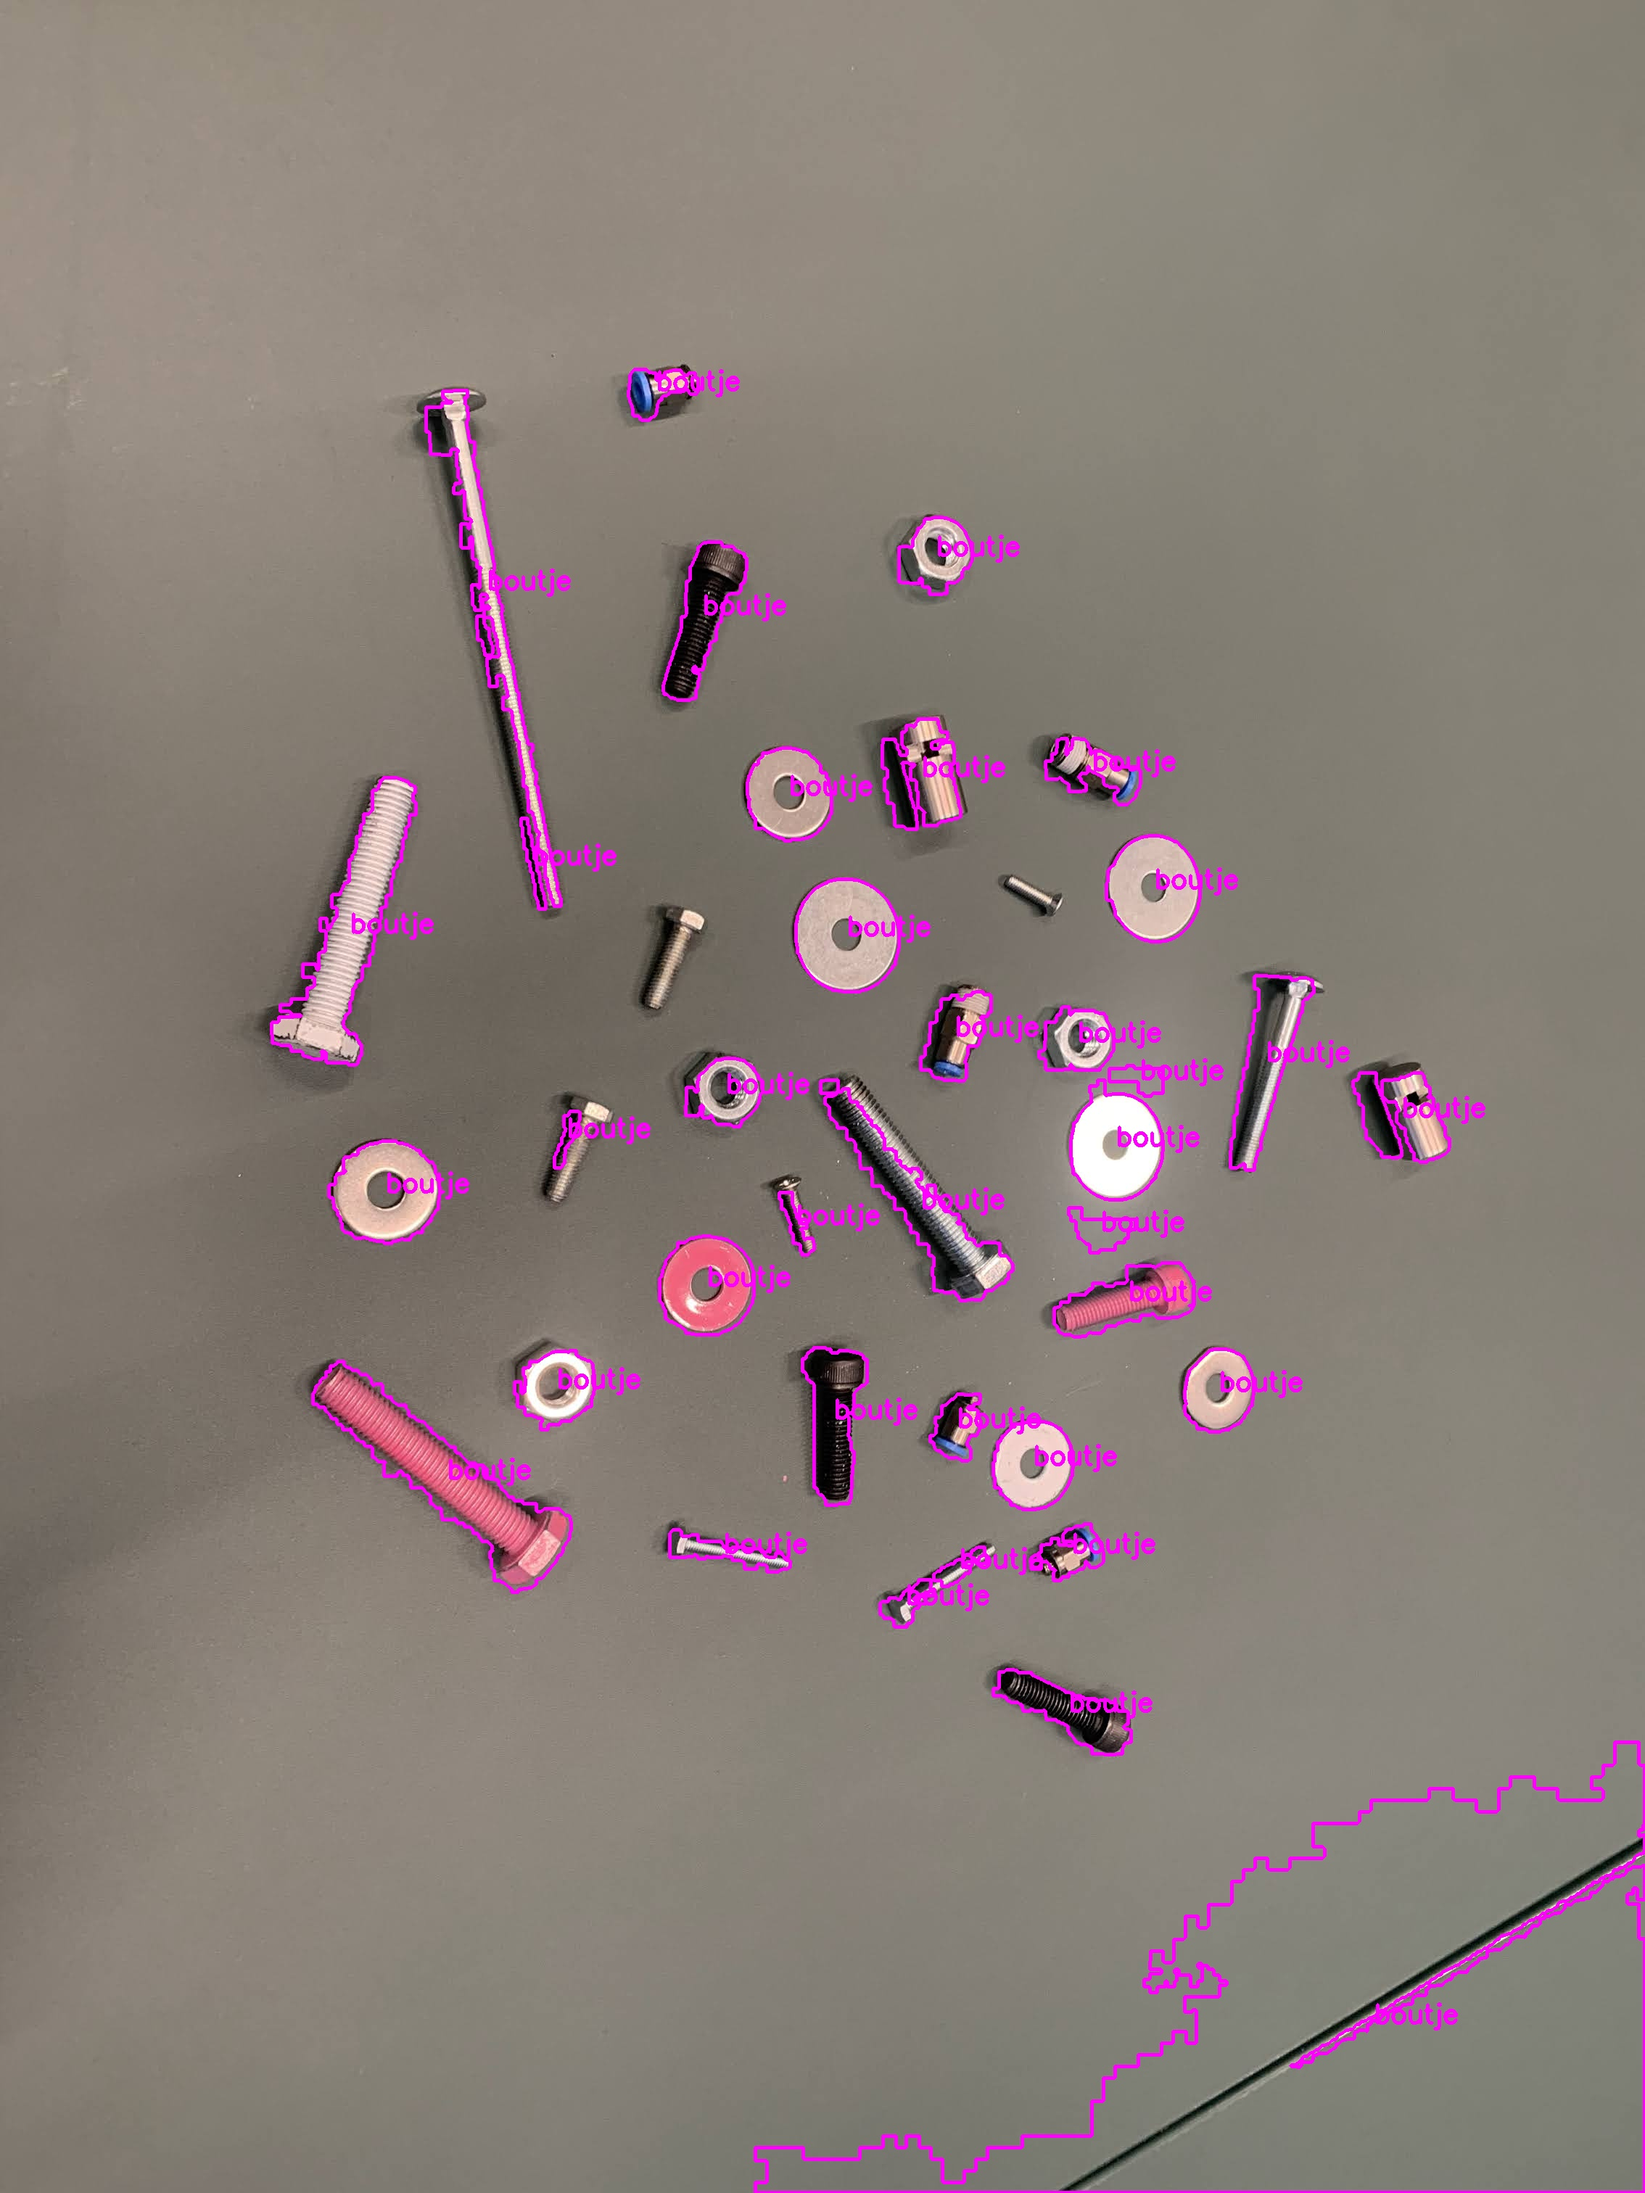
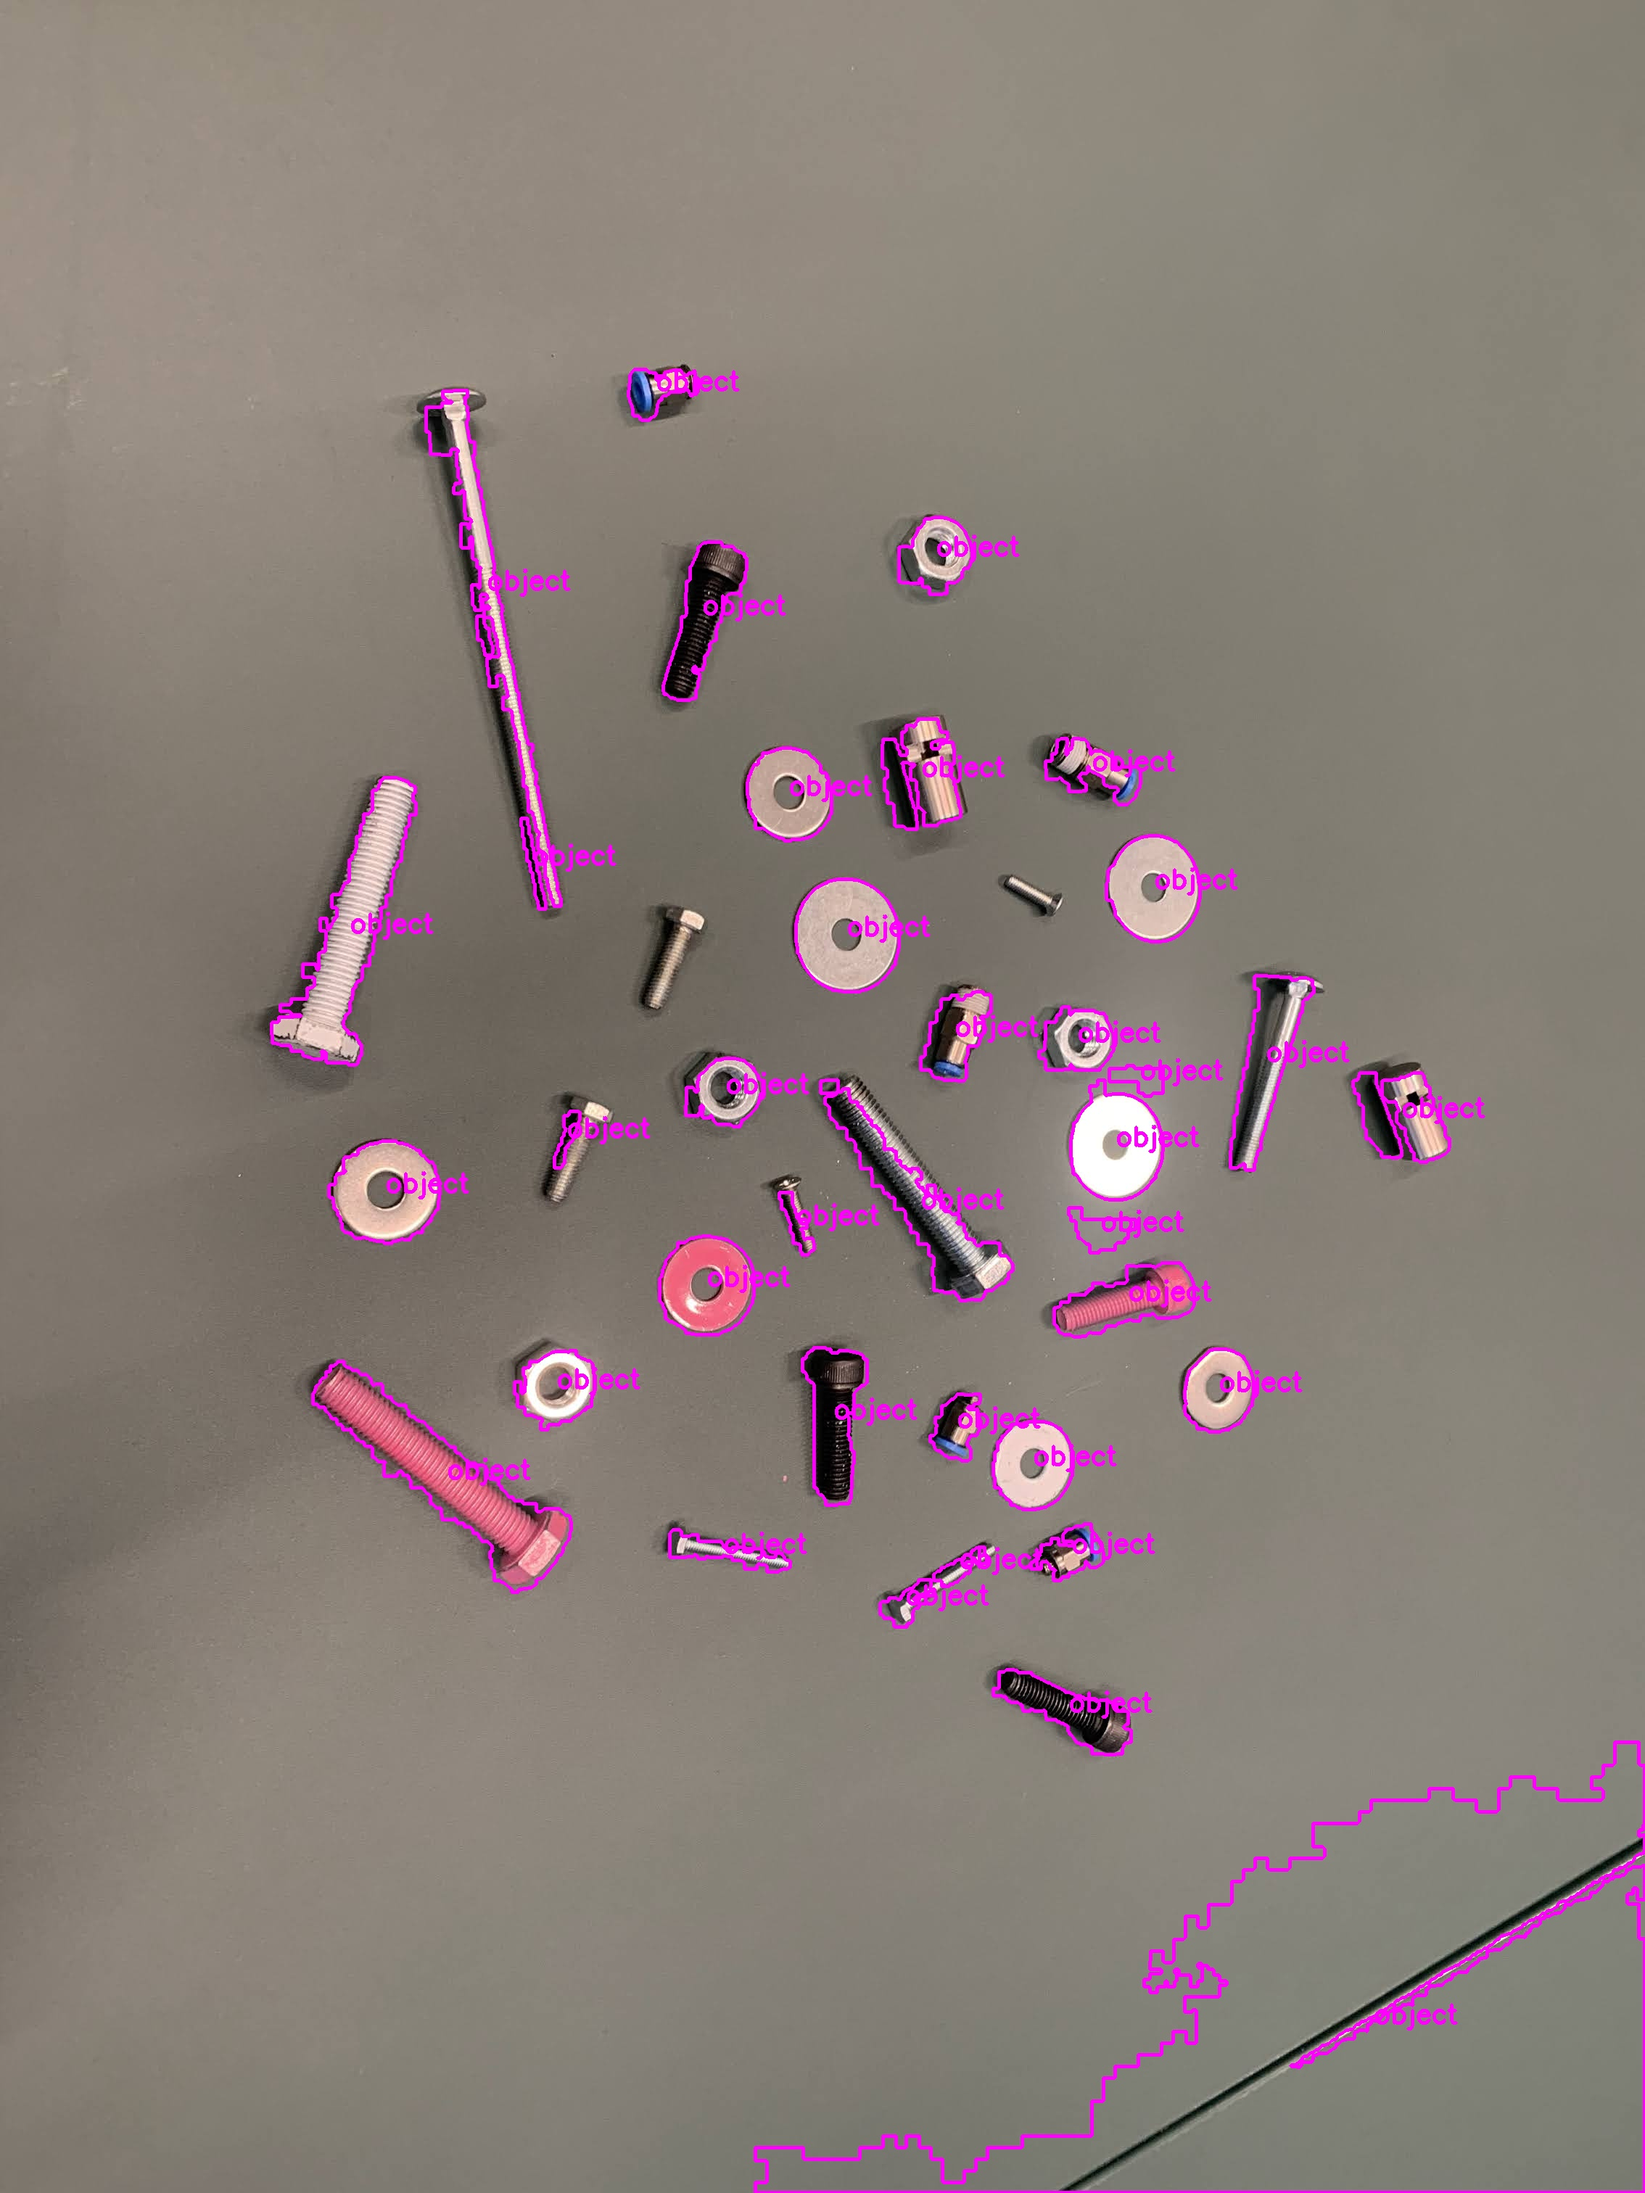
added an object class and added features for the class

diff --git a/Conventional.py b/Conventional.py
@@ -16,7 +16,6 @@ class image():
     def add_contour(self, contour):
         self.contours.append(contour)
 
-# TODO: Deze nog toepassen in code
 class object():
     def __init__(self):
         self.kind_of_object = None
@@ -71,13 +70,23 @@ for img in images:
     for contour in contours:
         if (cv.contourArea(contour) > contour_area):
             img.add_contour(contour)
+            contour = object()
+            
+    # print("found", len(img.contours), "contours in", img.name)
+
+    # -=-=- find oriëntation -=-=- #
+    # TODO: Check this function
+    for contour in img.contours:
+        (x,y),(MA,ma),angle = cv.fitEllipse(contour)
+        object.oriëntation = angle
         
-    # -=-=- find orientation -=-=- #
-    # for contour in img.contours:
-    #     (x,y),(MA,ma),angle = cv.fitEllipse(contour)
+    # -=-=- find closest color -=-=- #
+    # TODO: make this function
     
-    print("found", len(img.contours), "contours in", img.name)
+    # -=-=- find kind of object -=-=- #
+    # TODO: Make this function
     
+
     # -=-=- draw contours and put text -=-=- #
     # om een specifieke contour te maken, gebruik cnt = contours[1], en cnt als var
     img_with_contour = cv.drawContours(img.cv_image, img.contours, -1, (255,0,255), 3)
